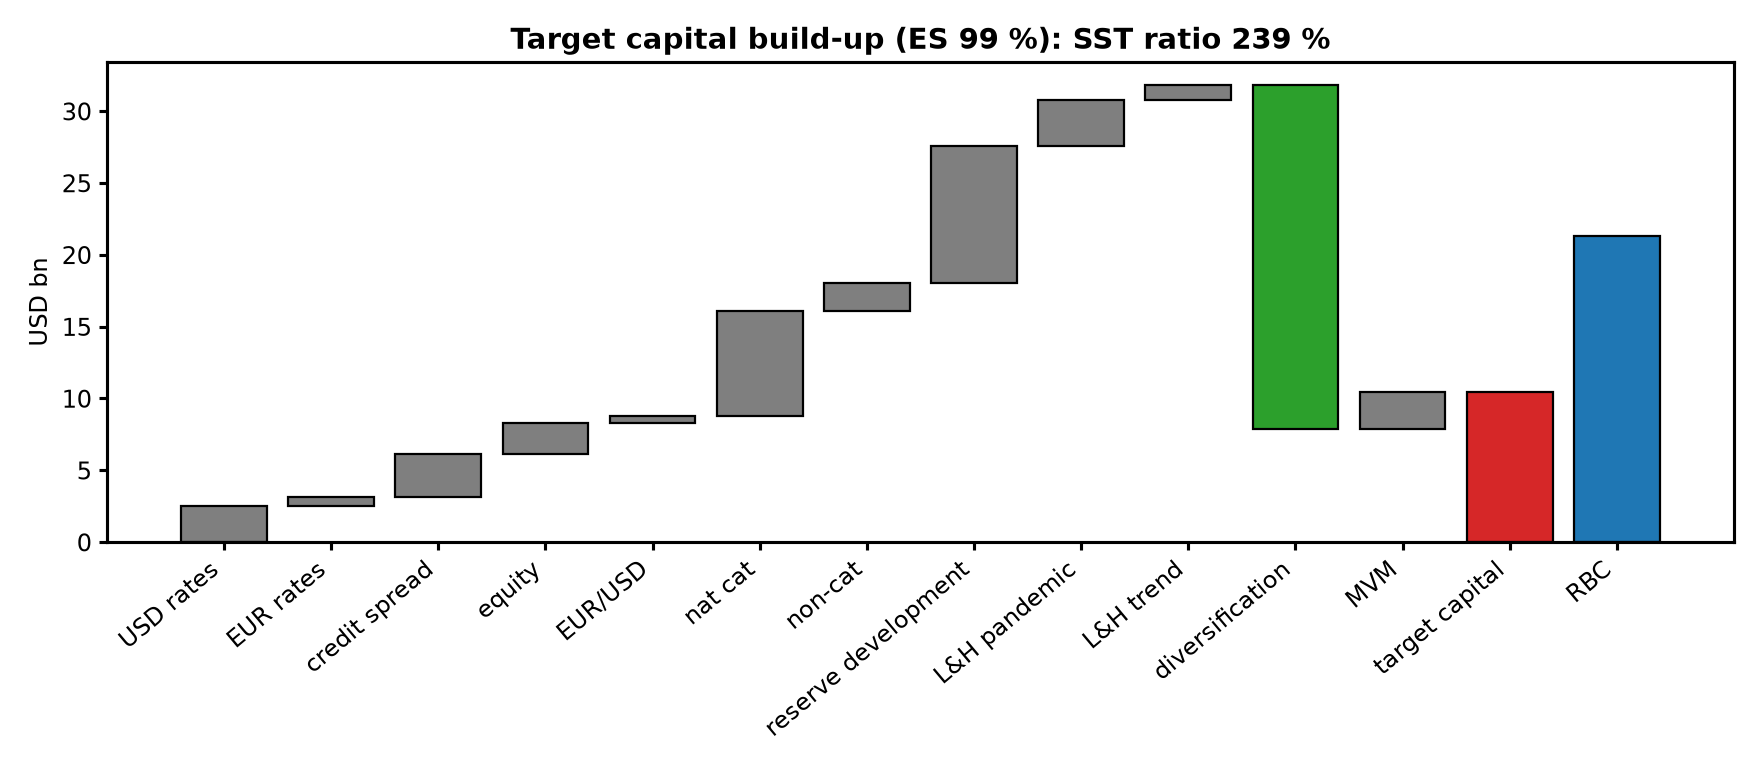
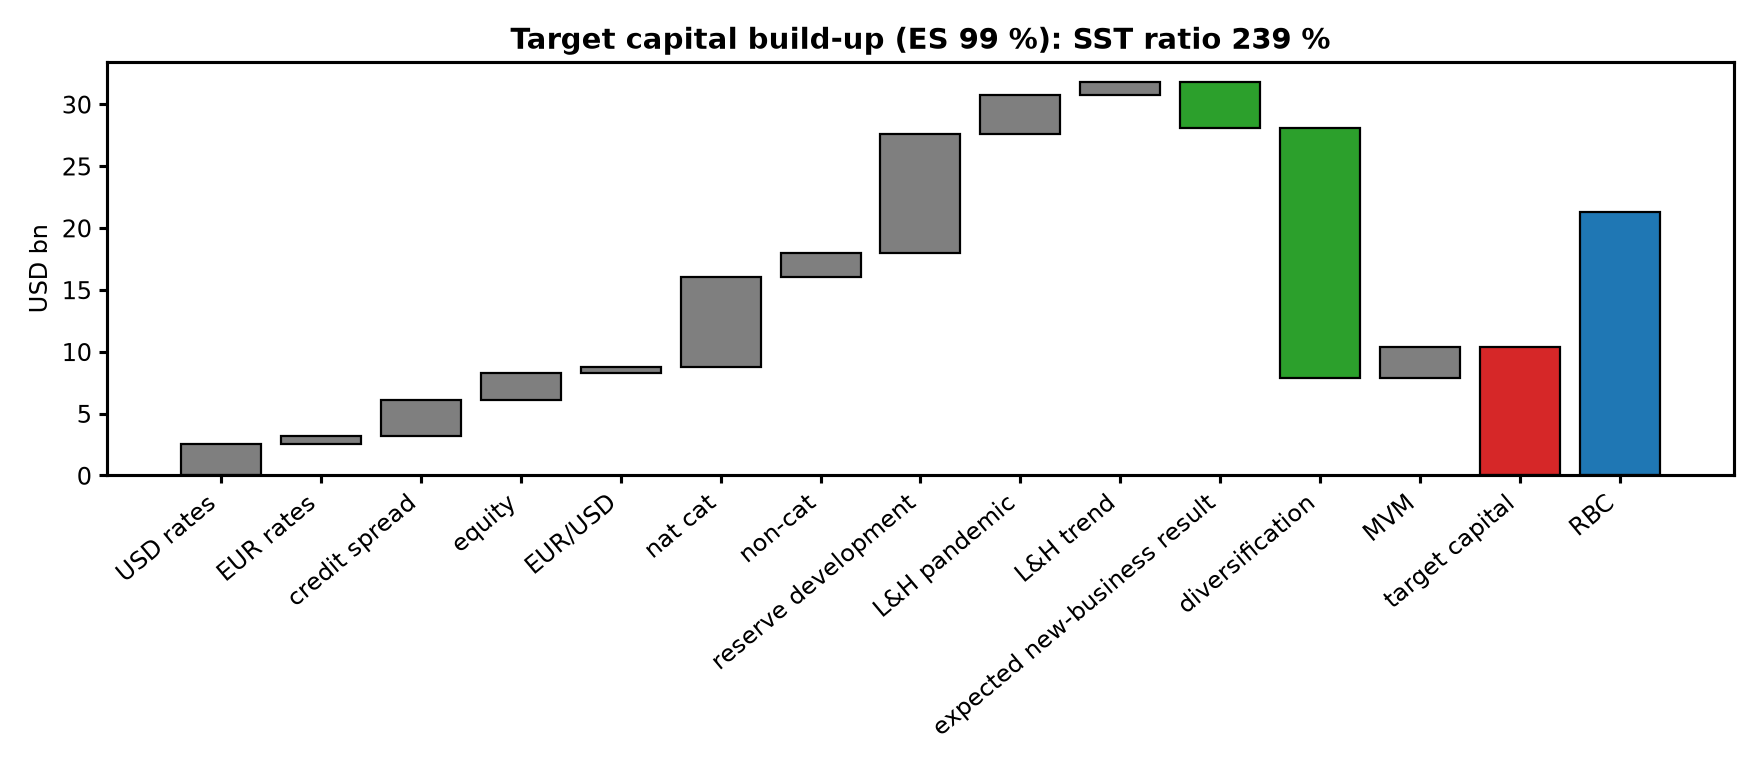
Show expected new-business result separately from diversification in the target-capital build-up

diff --git a/scripts/run_sst.py b/scripts/run_sst.py
@@ -37,6 +37,7 @@ ins = r["insurance"]
 out["sst"]["stand_alone_insurance_es"] = {k: round(float(expected_shortfall(-v)), 4)
                                           for k, v in ins.items() if not k.startswith("_") and k != "new business (expected)"}
 out["sst"]["natcat_expected_loss"] = round(natcat_mean(), 4)
+out["sst"]["expected_new_business_result"] = round(float(ins["new business (expected)"][0]), 4)
 out["balance_sheet"] = {k: round(float(v), 3) for k, v in r["base"].items()}
 
 # ------------------------------------------------------------------ 2. verification
@@ -178,7 +179,7 @@ fig.tight_layout(); fig.savefig(FIG / "fig2_distribution.png", dpi=160); plt.clo
 
 # fig3: target capital build-up
 sa_m = out["sst"]["stand_alone_market_es"]; sa_i = out["sst"]["stand_alone_insurance_es"]
-items = list(sa_m.items()) + list(sa_i.items())
+items = list(sa_m.items()) + list(sa_i.items()) + [("expected new-business result", -out["sst"]["expected_new_business_result"])]
 div = r["es"] - sum(v for _, v in items)
 labels = [k for k, _ in items] + ["diversification", "MVM", "target capital", "RBC"]
 vals = [v for _, v in items] + [div, r["mvm"]]

diff --git a/README.md b/README.md
@@ -19,14 +19,15 @@ SST capital, sensitivities, and a backtest of the market-risk model.
 | Assets (market value) | 96.0 |
 | Best-estimate liabilities (P&C USD/EUR reserves, L&H) | 74.7 |
 | **Risk-bearing capital (RBC)** | **21.3** |
-| One-year ES 99 %: market 5.1, insurance 7.5, **total 7.8** (diversification 24.0) | 7.8 |
+| One-year ES 99 %: market 5.1, insurance 7.5, **total 7.8** (net of the expected new-business result, 3.7) | 7.8 |
 | Market value margin (6 % cost of capital on run-off capital) | 2.6 |
 | **Target capital = ES + MVM** | **10.4** |
 | **SST ratio = (RBC − MVM) / (TC − MVM)** | **239 %** (± 1.8 % Monte Carlo, 10 seeds) |
 
 - **Largest risks.** Stand-alone ES: reserve development 9.6, nat cat 7.3 (North Atlantic hurricane dominates),
-  credit spreads 3.0, USD rates 2.5, equity 2.1. Market and insurance risk are simulated independently, so
-  the total (7.8) is far below the sum of the parts.
+  credit spreads 3.0, USD rates 2.5, equity 2.1. The ten stand-alone ES values add up to 31.8; the total is
+  7.8 because the risks are simulated independently (diversification 20.3) and the one-year result includes
+  the expected profit on new business (3.7), as the SST one-year view does.
 - **Sensitivities** (`fig5`): rates −100 bp → 258 %, +100 bp → 221 %; spreads +100 bp → 224 %;
   equities −30 % → 216 %; EUR/USD −15 % → 234 %; a 1-in-200 hurricane (USD 7.3 bn) → 146 %.
   Assets are longer than liabilities here, so falling rates *raise* the ratio.
